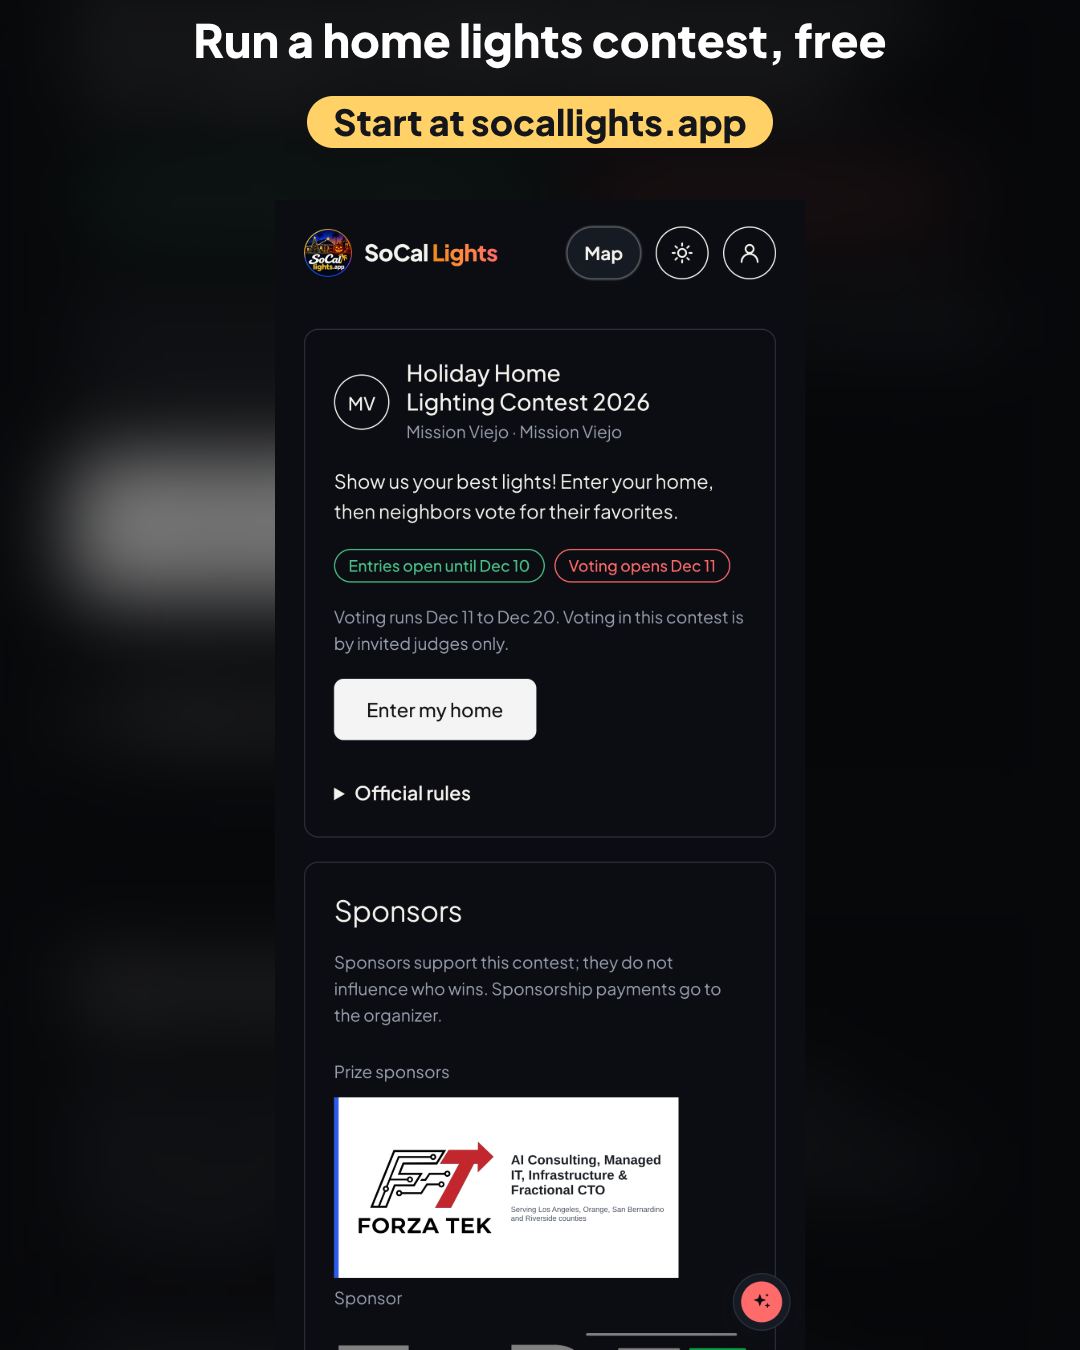
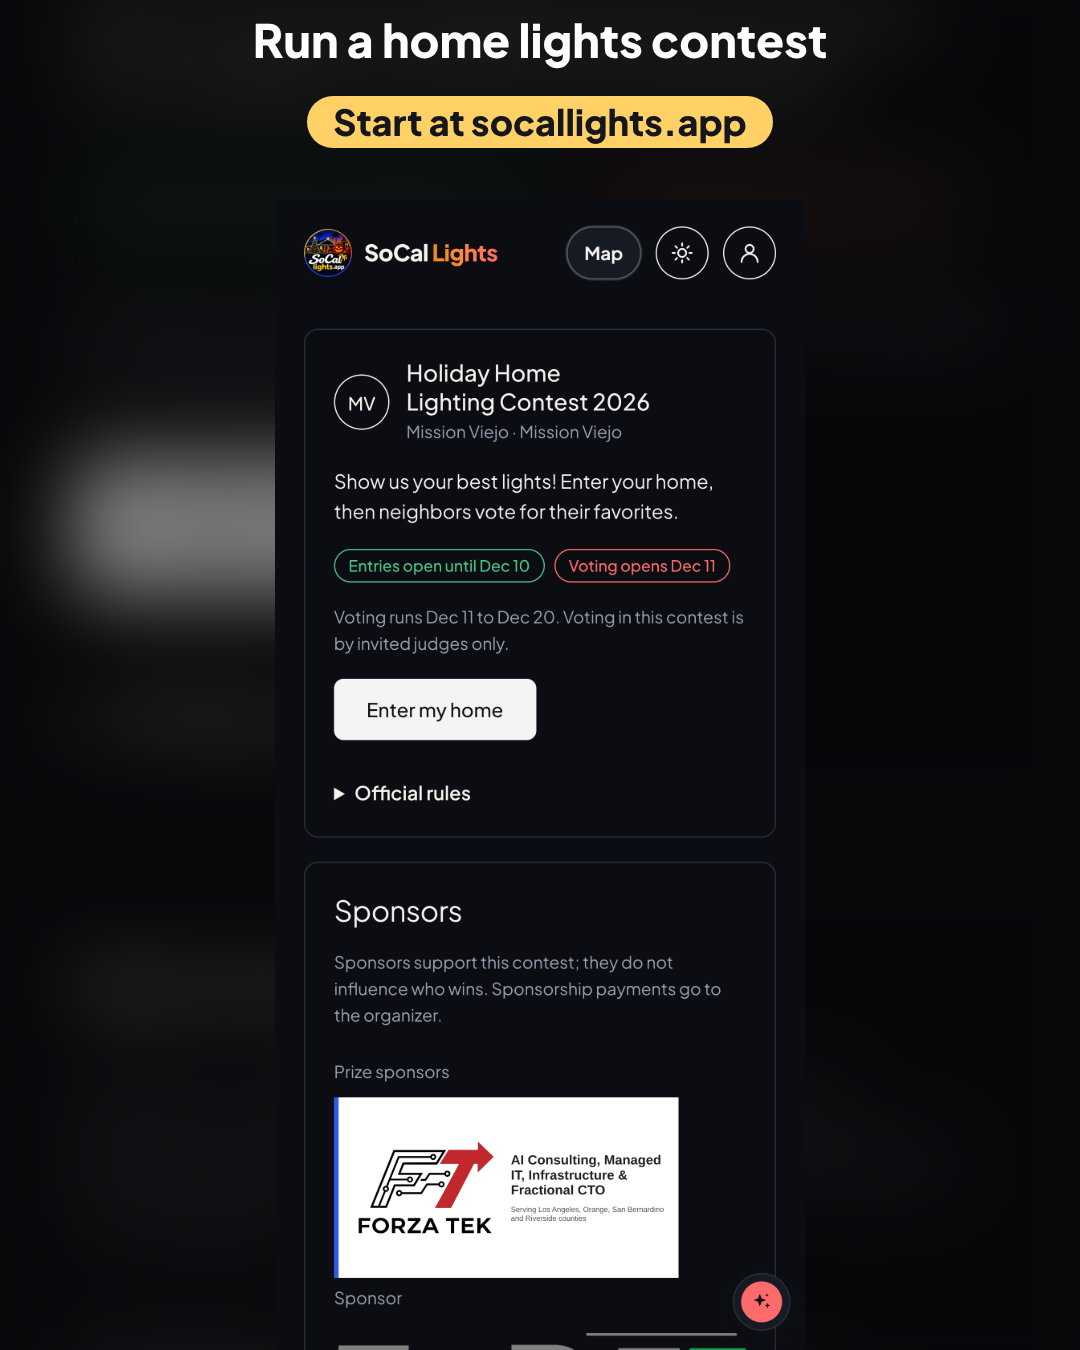
Ads: contest ads, post and picture no longer say the first contest is free (new contest pricing)
Claude-Session: https://claude.ai/code/session_019SjWVroMHGP2PhQTUG27MT

Changed region(s): [[0.1833, 0.0, 0.825, 0.0622]]

diff --git a/docs/marketing/ads-launch-handoff.md b/docs/marketing/ads-launch-handoff.md
@@ -19,10 +19,10 @@ Paste into a Claude in Chrome session or give to Grok. The owner is signed in to
 
 ### Contest organizers on Facebook and Instagram: budget $55, Nov 12 to Dec 8, about $2.04 a day
 
-**ct-a-meta** (A: First contest free)
-- Headline: Run a home lights contest, free
-- Text: Cities, HOAs, schools, chambers: your organization's first contest in every 12 months is free. Entering is free too.
-- Description: First contest free
+**ct-a-meta** (A: Run a contest)
+- Headline: Run a home lights contest
+- Text: Cities, HOAs, schools, chambers: set up a home lights contest in minutes. Entering is free for residents.
+- Description: Free for residents to enter
 - Button: Learn more
 - Link: https://socallights.app/add-contest?ref=mt-ct-a&utm_source=meta&utm_medium=paid_social&utm_campaign=scl-ct-nov26&utm_content=a-free-v1
 - Visual: Real screenshots of the demo contest (docs/contest-demo.md): entry page and results page with demo homes. Mark it 'Example contest'. No real residents.
@@ -31,7 +31,7 @@ Paste into a Claude in Chrome session or give to Grok. The owner is signed in to
 **ct-b-meta** (B: Judges, awards, QR)
 - Headline: Judges, awards and a QR poster
 - Text: Run your neighborhood lights contest online: resident entries, judges, and People's Choice and Judges' Choice awards.
-- Description: First contest free
+- Description: Free for residents to enter
 - Button: Learn more
 - Link: https://socallights.app/contests?ref=mt-ct-b&utm_source=meta&utm_medium=paid_social&utm_campaign=scl-ct-nov26&utm_content=b-judging-v1
 - Visual: A QR poster we generate from the demo contest, labelled 'Example'. Own design, no stock.

diff --git a/docs/marketing/organic-posts-2026-11.md b/docs/marketing/organic-posts-2026-11.md
@@ -37,8 +37,8 @@ Posted by Grok after the owner approves each post. Not paid. All times Pacific; 
 ## 2026-11-17 (Tue): Run a home decorating contest
 - Where: Facebook + Instagram · Feed post (4:5)
 - Picture or video: a03 demo contest entry (4:5)
-- Headline: Want a neighborhood lights contest? Your first one is free.
-- Caption: Set up a home decorating contest in minutes: a link and a QR code to share, with entries, judges and a results page. The first contest for your organization in a 12-month window is free.
+- Headline: Want a neighborhood lights contest? Set one up in minutes.
+- Caption: Set up a home decorating contest in minutes: a link and a QR code to share, with entries, judges and a results page. Residents enter for free; organizers choose a contest pass (see the Pricing page).
 - Link: https://socallights.app/add-contest?utm_source=meta&utm_medium=organic_social&utm_campaign=scl-organic-nov26&utm_content=contest-first-free
 - Post on 2026-11-17 (Pacific). Hashtags (optional, 3 to 4): #socallights #communityevents #holidaycontest. Rules: the word 'home'; no prices; no invented numbers; nothing implying payment affects contest results. Posted by Grok from the SoCalLights.app Page and Instagram account, only after the owner approves this post.
 
